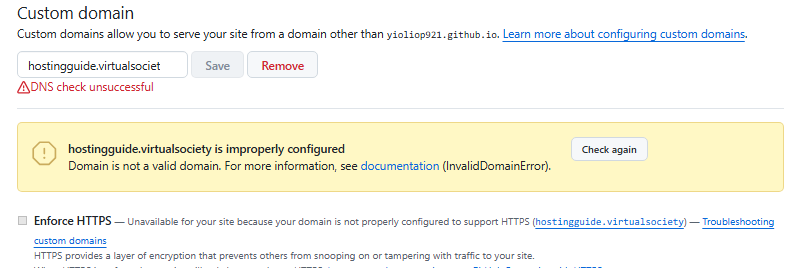
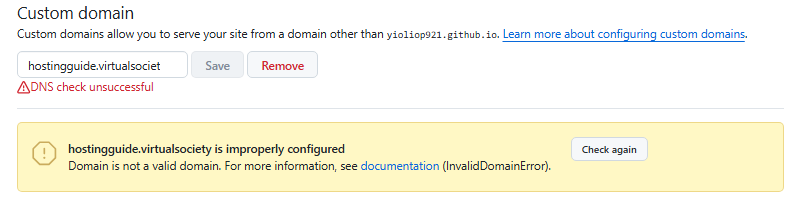
Tighten DNS check screenshot crop

diff --git a/index.html b/index.html
@@ -432,7 +432,7 @@ footer p{margin:0}
   </p>
 
   <figure>
-    <img src="shots/github-dns-check.png" alt="GitHub Pages settings showing the custom domain with a red DNS check unsuccessful warning and an improperly configured notice" loading="lazy" width="804" height="268">
+    <img src="shots/github-dns-check.png" alt="GitHub Pages settings showing the custom domain with a red DNS check unsuccessful warning and an improperly configured notice" loading="lazy" width="804" height="208">
     <figcaption><b>Harmless.</b> <code>DNS check unsuccessful</code> and <code>InvalidDomainError</code> appear on every correctly configured alt-root domain. The site still serves.</figcaption>
   </figure>
 
